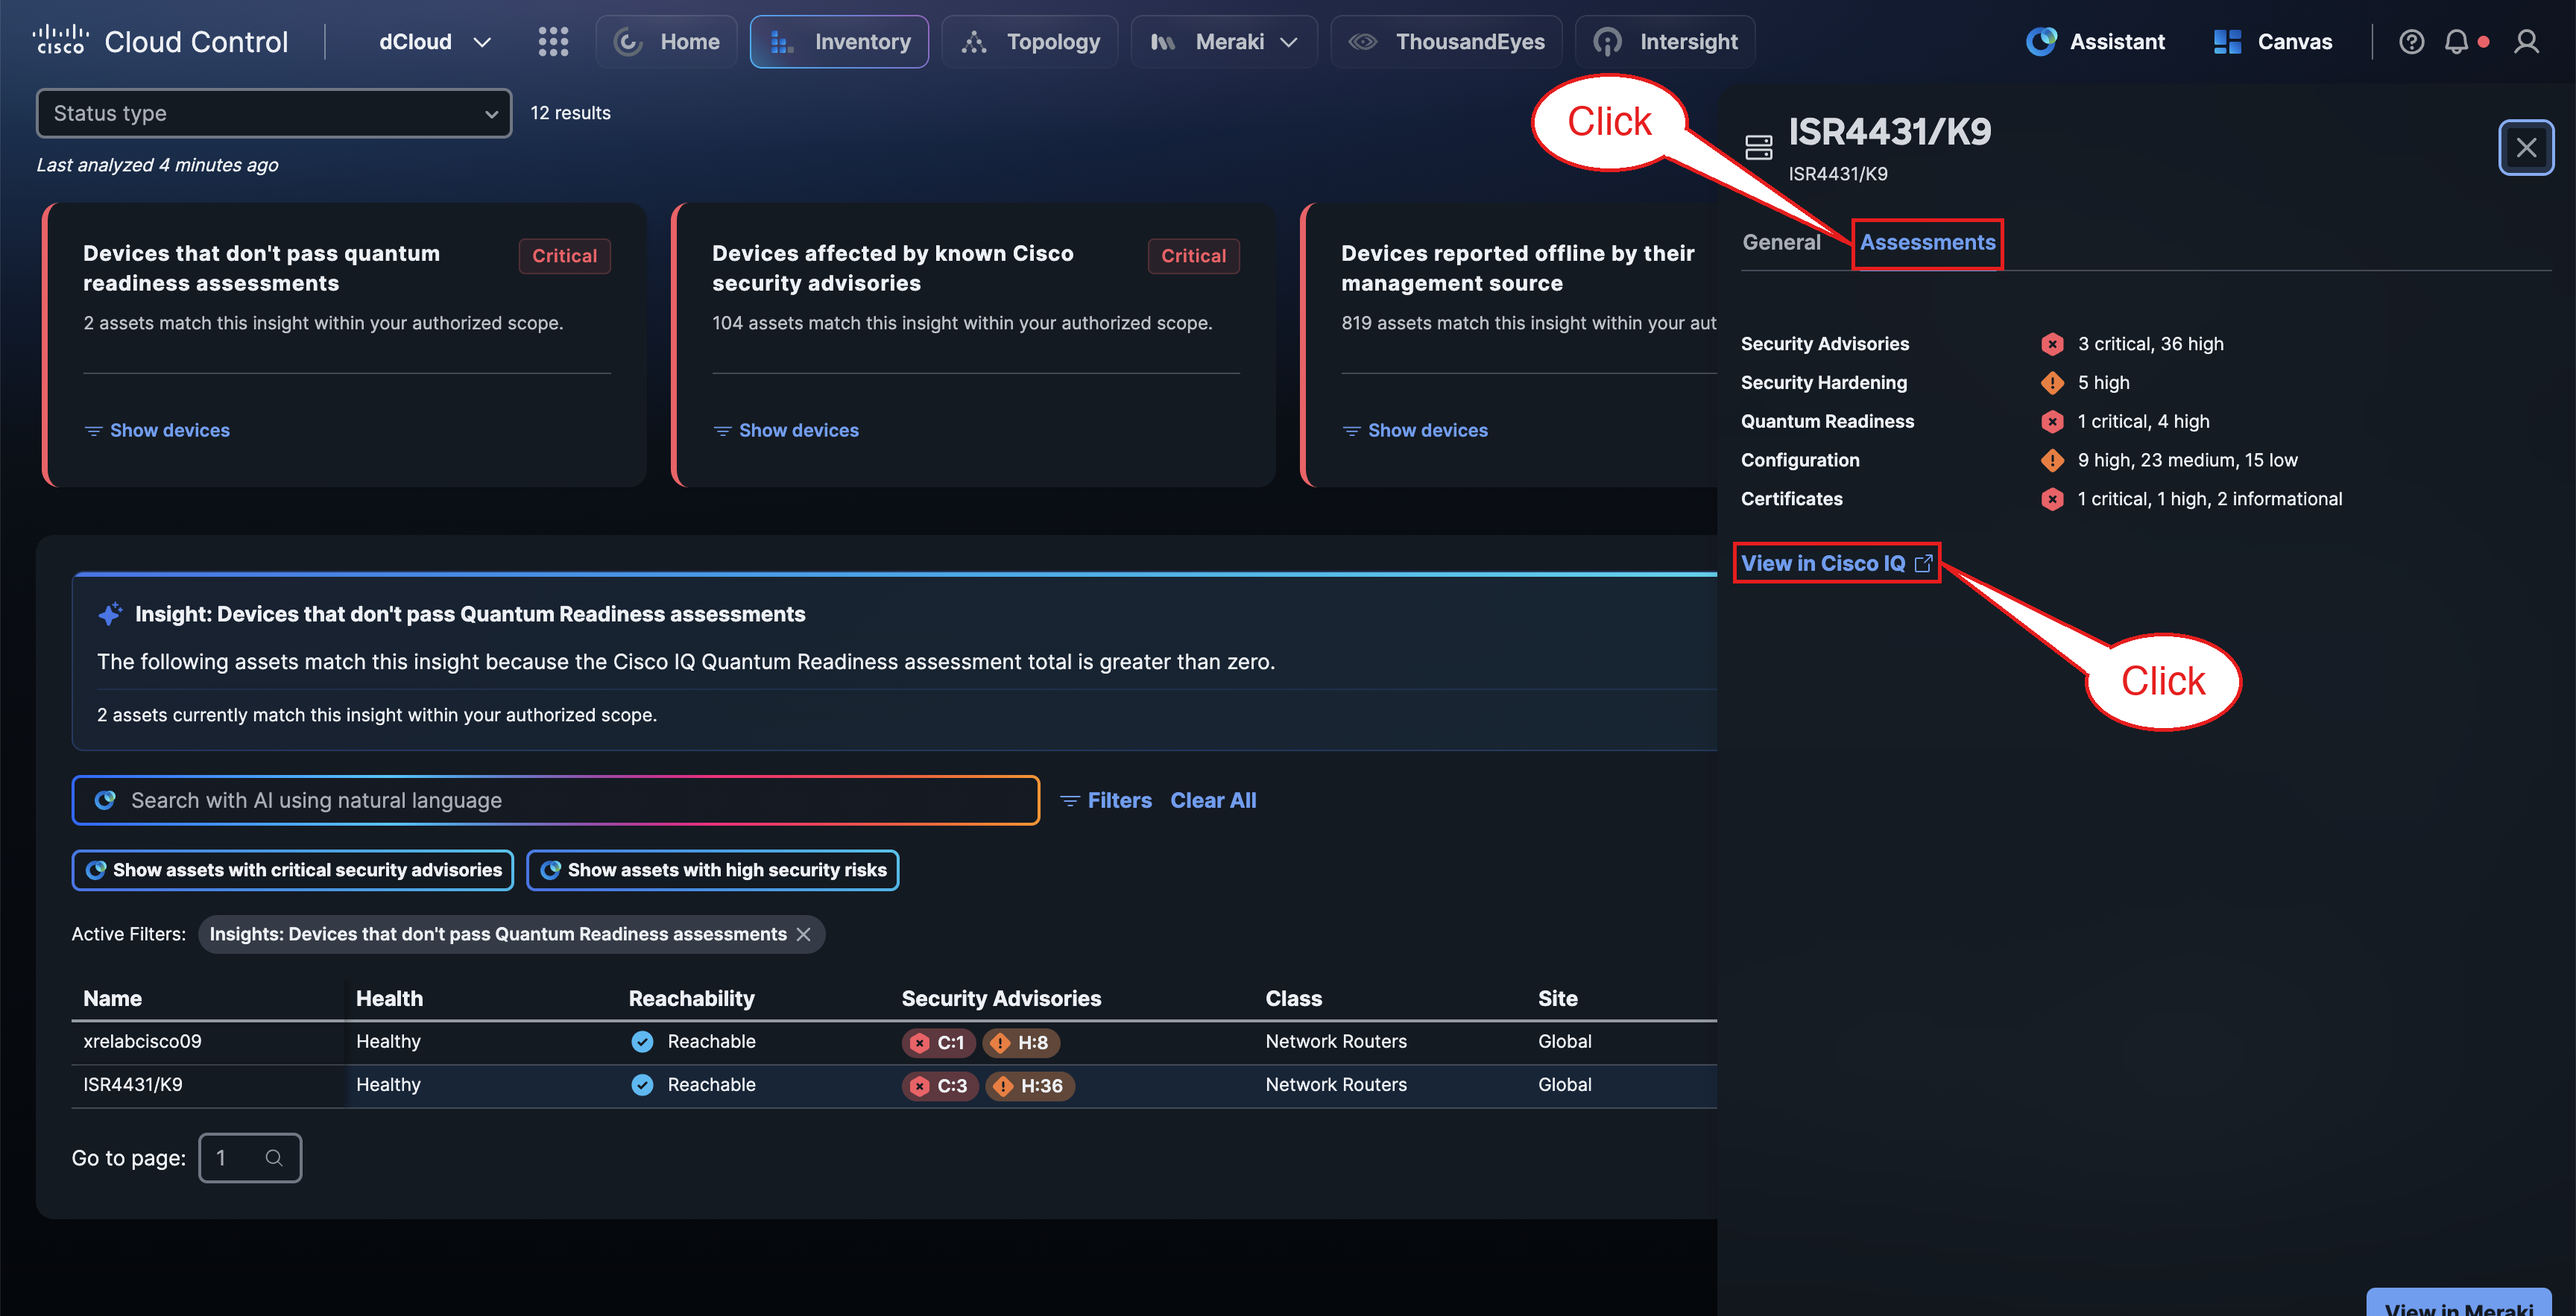
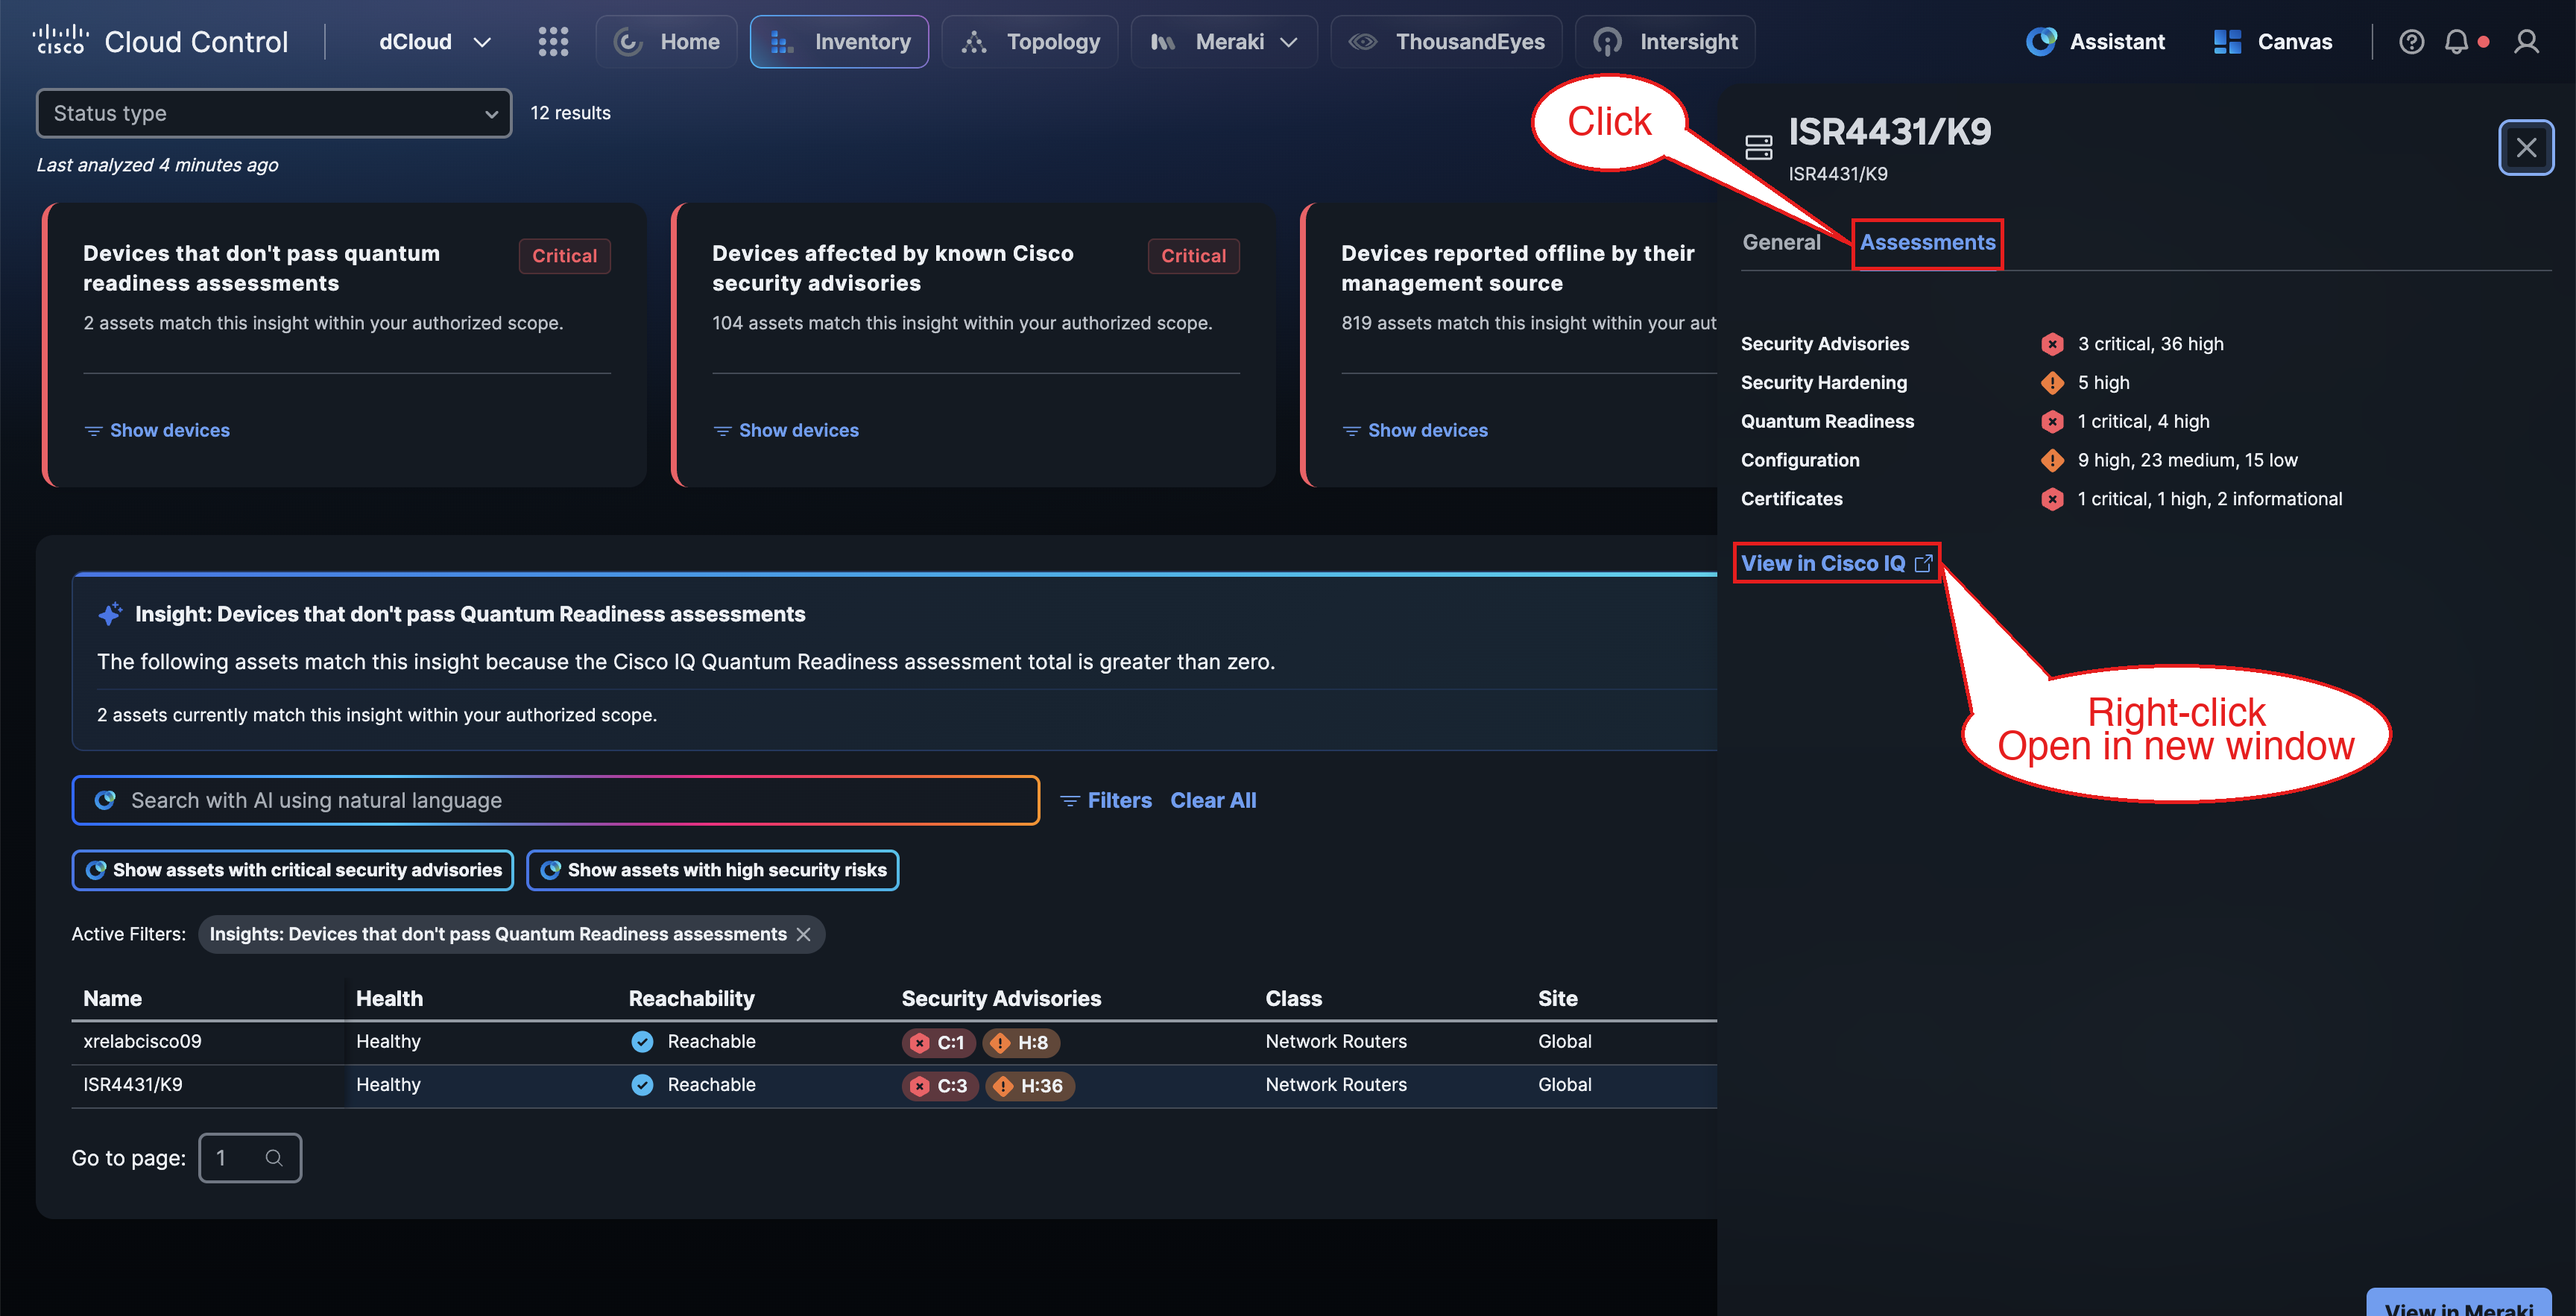
Update lab guide — 2026-11-03 09:43

Changed region(s): [[0.75, 0.436, 0.9375, 0.6229]]

diff --git a/docs/section-6-cloud-control-and-cisco-iq/index.md b/docs/section-6-cloud-control-and-cisco-iq/index.md
@@ -66,11 +66,13 @@ This is every Cisco IQ assessment for the device, summarized by severity:
 
 An operator sees all of this without leaving Cloud Control.
 
+When you have finished reviewing the assessments, **right-click** **View in Cisco IQ** at the bottom of the panel and choose **Open Link in New Window**. Cisco IQ opens in its own window, and Cloud Control stays open in this one so you can come back to it later in the lab.
+
 ## Step 5: Cross-Launch into Cisco IQ
 
 
 
-At the bottom of the Assessments tab, click **View in Cisco IQ**.
+Switch to the new window you opened from **View in Cisco IQ**.
 
 ![](../screenshots/iq-summary.png)
 
@@ -118,7 +120,7 @@ Every hardening rule is evaluated against the device's configuration and marked 
 
 
 
-Return to Cloud Control (use the Cloud Control top bar or your browser's back button — you stay signed in). Click **Home**, open **Canvas**, and start a **New** canvas.
+Switch back to the Cloud Control window you left open in Step 4 — you are still signed in. Click **Home**, open **Canvas**, and start a **New** canvas.
 
 In the message box, enter:  
 What security hardening opportunities are on ISR4431/K9?
